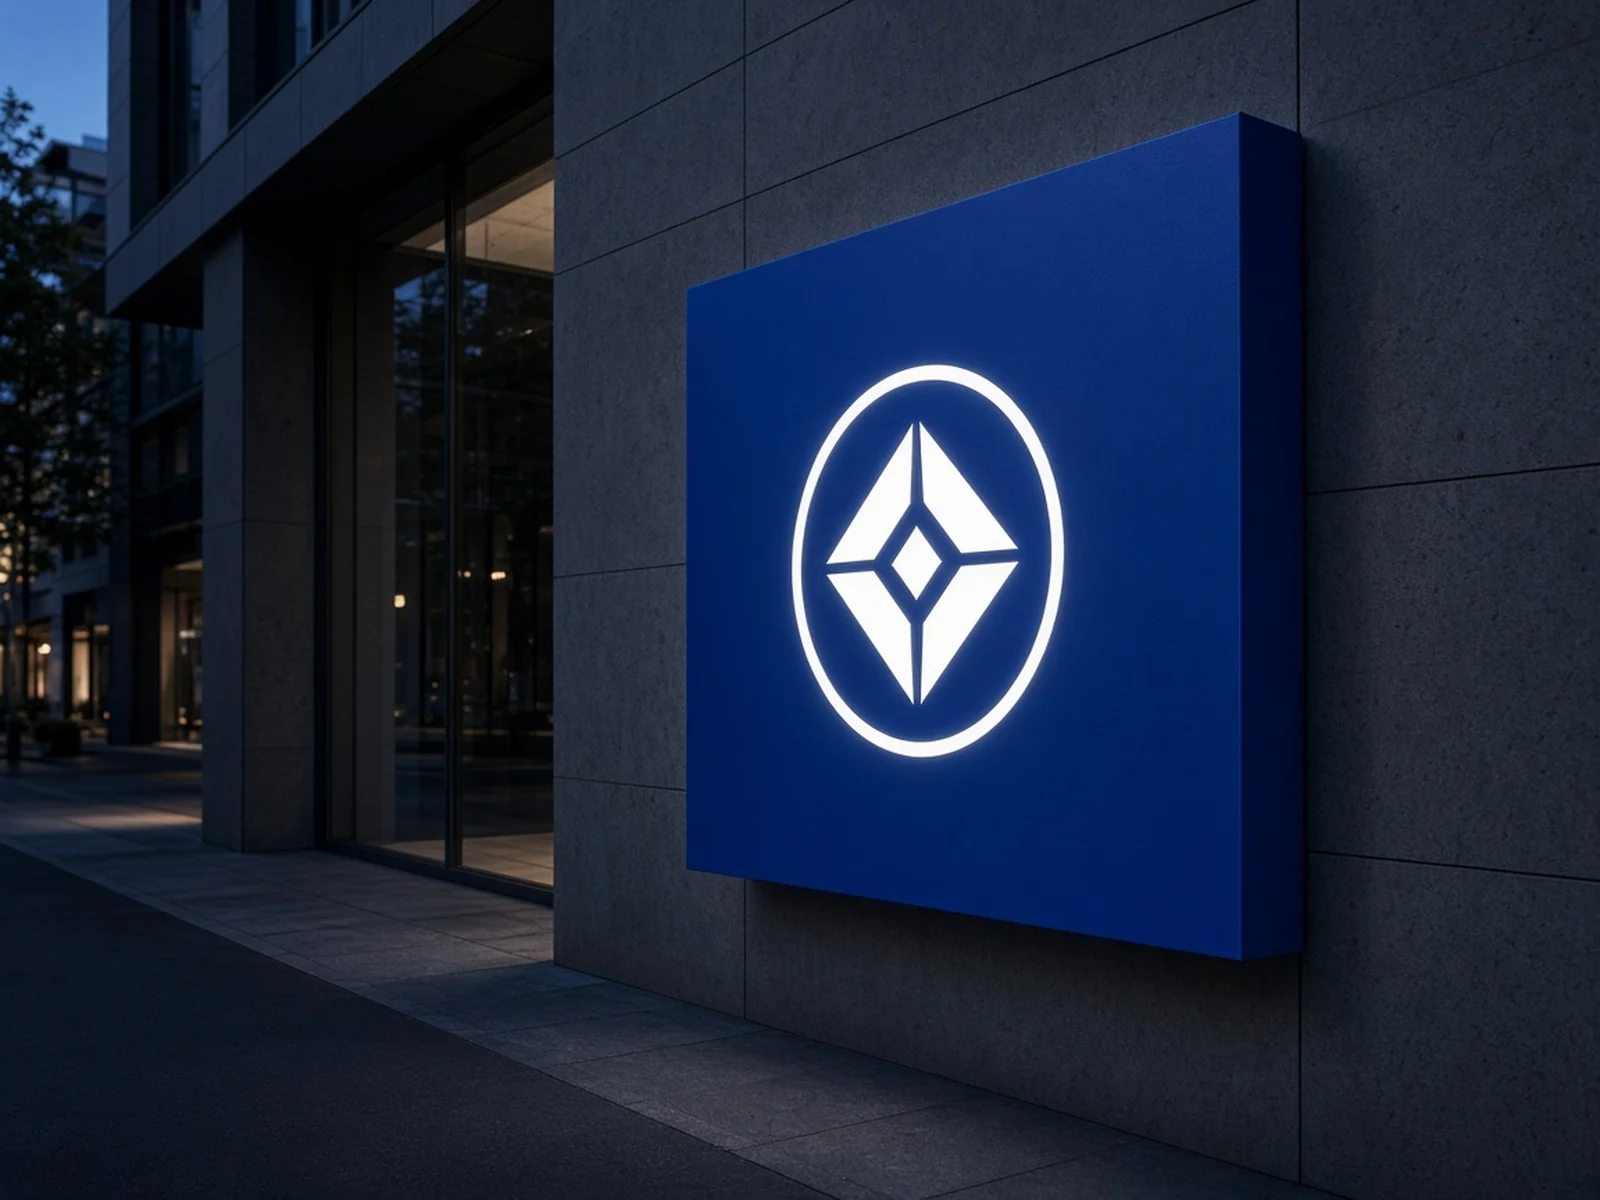
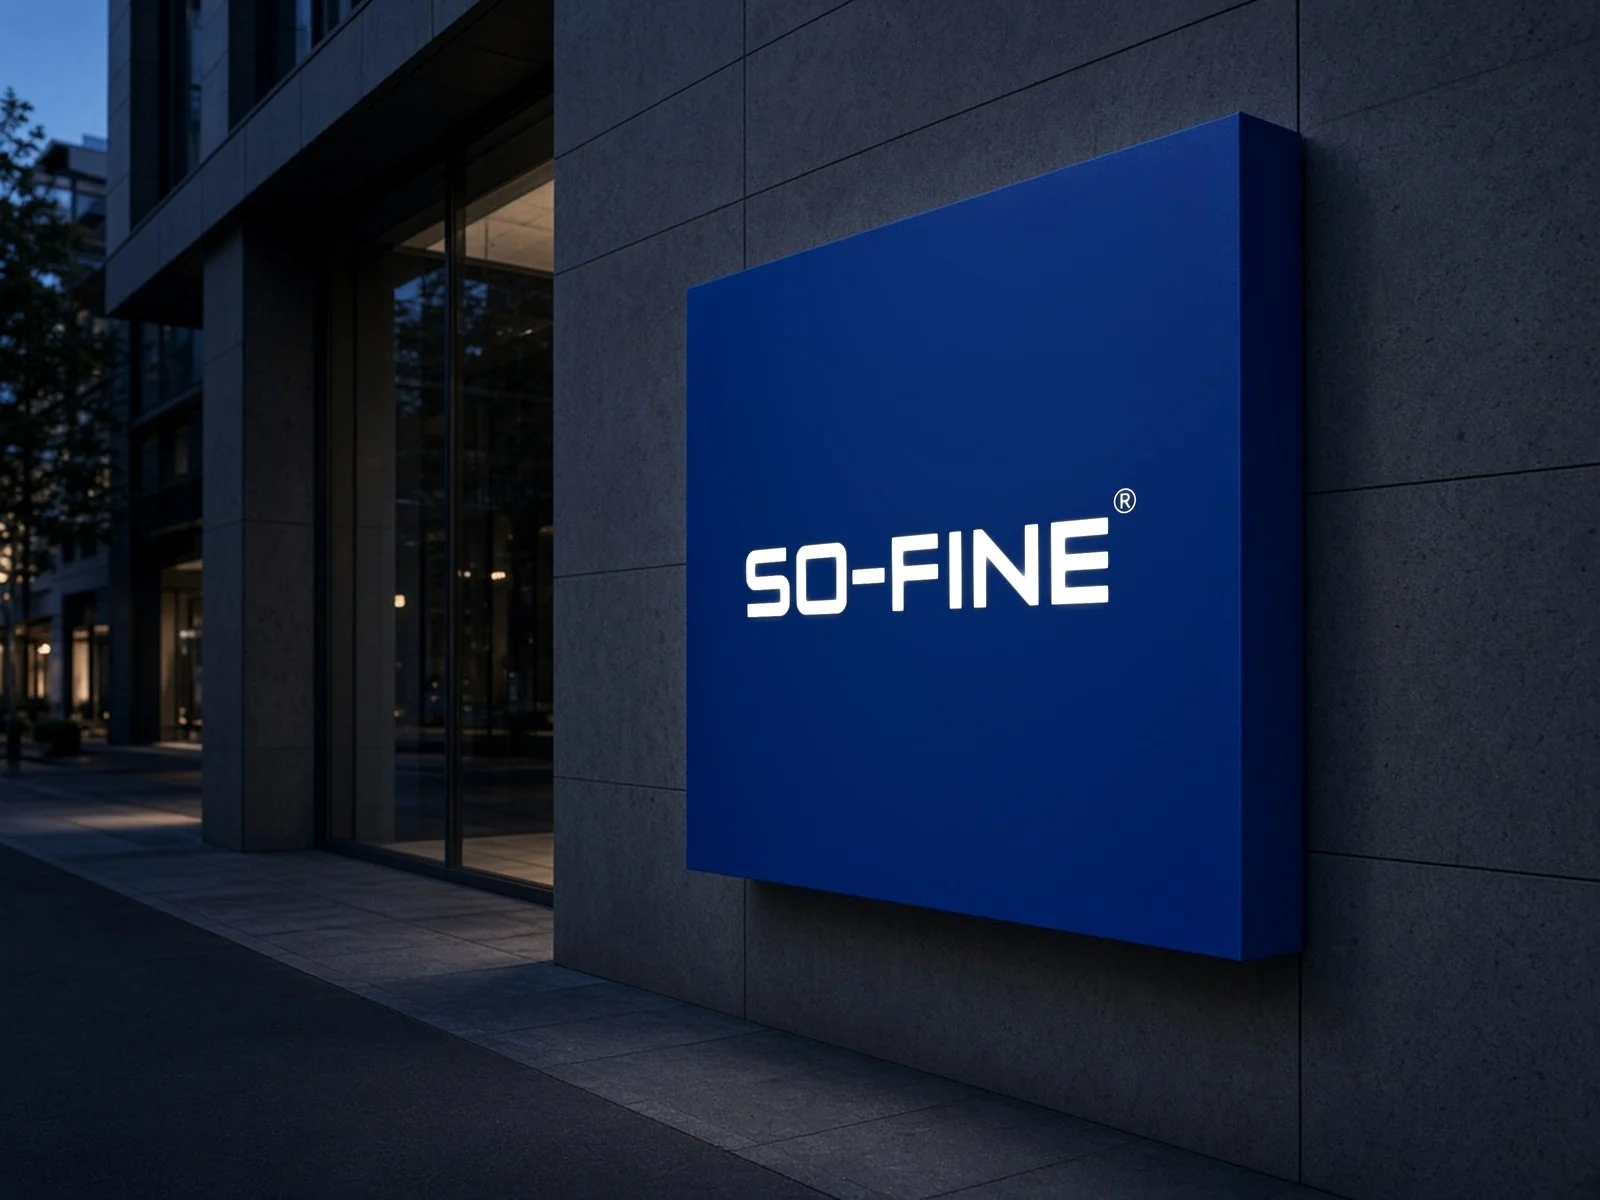
Preview: update translucent-film cover with SO-FINE wordmark
Replace the Translucent Film family cover with the official SO-FINE® wordmark lightbox and update the EN/ZH alts on design-refresh only.

Changed region(s): [[0.4688, 0.2775, 0.7188, 0.6475]]

diff --git a/src/content/site-content.js b/src/content/site-content.js
@@ -274,7 +274,7 @@ Object.assign(englishSiteContent.home.ppfSequence, {
 englishSiteContent.mediaAlts = {
   "one-way-vision": "Perforated one-way vision film on a train window, with a colorful graphic visible through the hole pattern and a clear view of the plaza outside",
   "self-adhesive-vinyl": "Large-format printed self-adhesive vinyl mural on a street hoarding, with vivid abstract color and tropical foliage",
-  "translucent-film": "Backlit square lightbox on a dusk commercial facade, covered in solid matte cobalt-blue translucent film with a plotter-cut geometric emblem glowing white through sharp hollowed edges",
+  "translucent-film": "Backlit square lightbox on a dusk commercial facade, covered in solid matte cobalt-blue translucent film with the official SO-FINE® wordmark plotter-cut and glowing white through sharp hollowed edges",
   "ppf": "Close view of a dark blue car hood and fender protected by clear glossy paint protection film, with water beading on the surface",
   "cast-wrap-vinyl": "Sports car with iridescent vinyl wrap",
   "polymeric-wrap-vinyl": "Commercial panel van wrapped in dimensionally stable polymeric vinyl with teal and sand graphic panels",

diff --git a/src/content/site-content.zh.js b/src/content/site-content.zh.js
@@ -389,7 +389,7 @@ export const chineseSiteContent = {
   "mediaAlts": {
     "one-way-vision": "火车车窗上的单透打孔膜，孔状图案中可见彩色图形，窗外广场视野清晰",
     "self-adhesive-vinyl": "街道围挡上的大幅面印刷自粘乙烯基图形，色彩浓烈并带有热带植物图案",
-    "translucent-film": "黄昏商业建筑外墙上的方形背光灯箱，通体覆有钴蓝色哑光半透明刻字膜，镂空雕刻出纯白发光的几何徽标，边缘锐利干净",
+    "translucent-film": "黄昏商业建筑外墙上的方形背光灯箱，通体覆有钴蓝色哑光半透明刻字膜，镂空雕刻出官方 SO-FINE® 标识并纯白发光，边缘锐利干净",
     "ppf": "深蓝色车头盖与翼子板特写，表面为高光透明漆面保护膜，水珠均匀挂珠",
     "cast-wrap-vinyl": "覆有炫彩车身贴膜的跑车",
     "polymeric-wrap-vinyl": "覆有青绿与沙色图形的聚合车身贴膜商用面包车",

diff --git a/src/media-manifest.js b/src/media-manifest.js
@@ -20,7 +20,7 @@ export const familyMedia = {
   'translucent-film': {
     hero: '/media/families/translucent-film.webp',
     preview: '/media/families/translucent-film.webp',
-    alt: 'Backlit square lightbox on a dusk commercial facade, covered in solid matte cobalt-blue translucent film with a plotter-cut geometric emblem glowing white through sharp hollowed edges'
+    alt: 'Backlit square lightbox on a dusk commercial facade, covered in solid matte cobalt-blue translucent film with the official SO-FINE® wordmark plotter-cut and glowing white through sharp hollowed edges'
   },
   ppf: {
     hero: '/media/families/ppf.webp',
